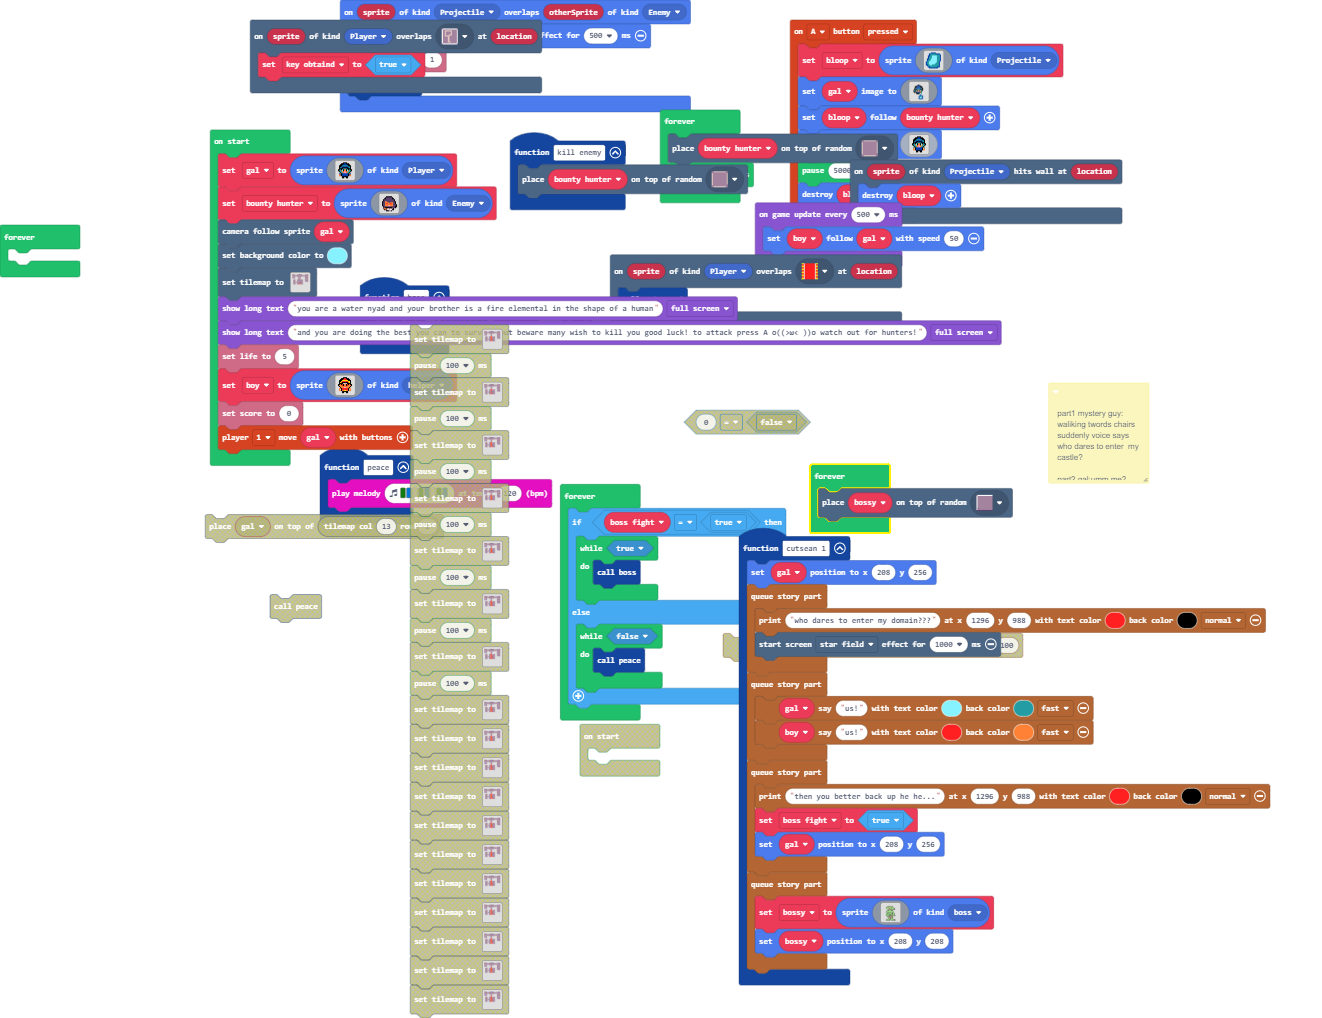
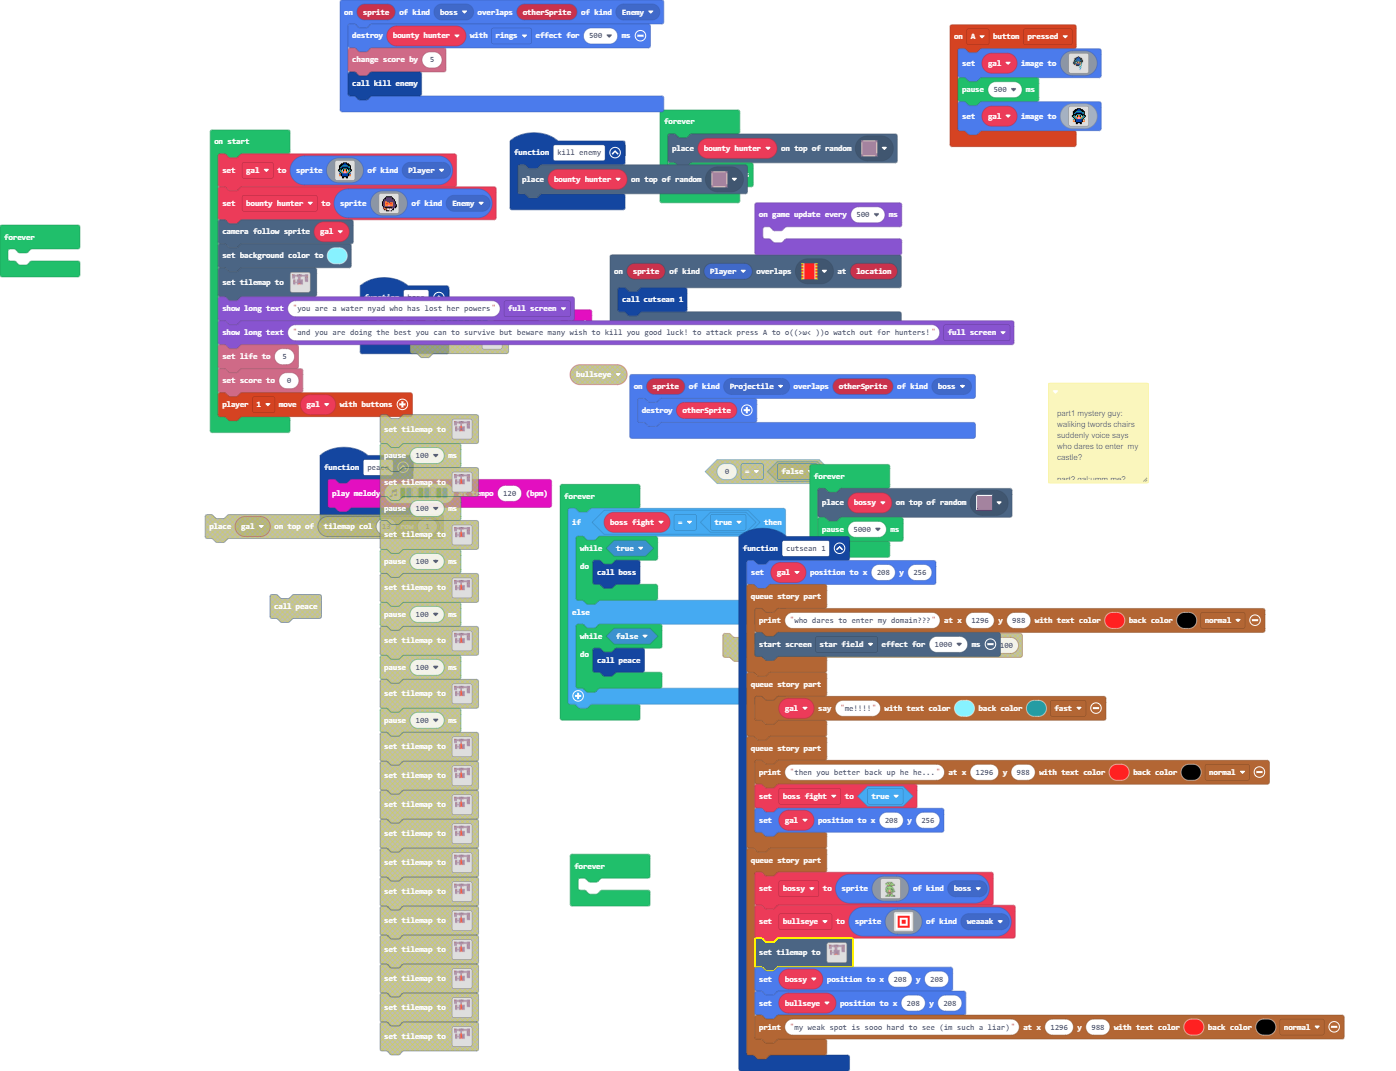
Update main.blocks, main.ts

diff --git a/main.ts b/main.ts
@@ -1,12 +1,9 @@
 namespace SpriteKind {
     export const helper = SpriteKind.create()
     export const boss = SpriteKind.create()
+    export const sword = SpriteKind.create()
+    export const weaaak = SpriteKind.create()
 }
-/**
- * part1 mystery guy: waliking twords chairs suddenly voice says who dares to enter  my castle? 
- * 
- * part2 gal:umm me?  mysty guy: wrong answer!!!  *jumps down from rafters* raaaah words slash across screen bosssssss
- */
 function cutsean_1 () {
     gal.setPosition(208, 256)
     story.queueStoryPart(function () {
@@ -14,8 +11,7 @@ function cutsean_1 () {
         effects.starField.startScreenEffect(1000)
     })
     story.queueStoryPart(function () {
-        story.spriteSayText(gal, "us!", 9, 6, story.TextSpeed.Fast)
-        story.spriteSayText(boy, "us!", 2, 4, story.TextSpeed.Fast)
+        story.spriteSayText(gal, "me!!!!", 9, 6, story.TextSpeed.Fast)
     })
     story.queueStoryPart(function () {
         story.printText("then you better back up he he...", 1296, 988, 2, 15, story.TextSpeed.Normal)
@@ -53,12 +49,12 @@ function cutsean_1 () {
             ff777f77ffff7777ffffff7777f...
             f7777f7777777777777ffff777f...
             f777ff77777777777777fff777f...
-            f777f7777fff777ff7777ff777f...
-            7777f777777fffff77777ff777f...
-            7f7ff777777f77f7ff777ff777fff.
-            7f7f7777ffffccfff7777ff777777f
-            ff7f777777ffffff77f77ff777f77f
-            ..ff777ff77777777ff77ff7f7ff7f
+            f777f7777f222222f7777ff777f...
+            7777f7777721111277777ff777f...
+            7f7ff77777212212ff777ff777fff.
+            7f7f7777ff212212f7777ff777777f
+            ff7f77777721111277f77ff777f77f
+            ..ff777ff72222227ff77ff7f7ff7f
             ...f7777ff777777ff777f.ff7f.f.
             ...f777f7ffffffff7777f...f....
             ...ffffeeeeeeeeeeeeeeef.......
@@ -75,28 +71,54 @@ function cutsean_1 () {
             f77777777777f...f777777777ffff
             ffffffffffffff...fffffffffffff
             `, SpriteKind.boss)
+        bullseye = sprites.create(img`
+            1 1 1 1 1 1 1 1 
+            1 2 2 2 2 2 2 1 
+            1 2 1 1 1 1 2 1 
+            1 2 1 2 2 1 2 1 
+            1 2 1 2 2 1 2 1 
+            1 2 1 1 1 1 2 1 
+            1 2 2 2 2 2 2 1 
+            1 1 1 1 1 1 1 1 
+            `, SpriteKind.weaaak)
[1 lines of base64/hex data omitted]
+            22...2222.........222222......
+            22.2..........................
+            ..........2.....2.............
+            ..........2.....2.............
+            .....2222.........222222...222
+            .....2...22.....222....2......
+            .....2....2.....2......2.2..2.
+            .....2....2.....2......2......
+            222222....2.....2......2......
+            ..2222...22.....22222..2......
+            .2....2.2.2222222...2..2......
+            .2....2.2...........2..2......
+            .2.22.2.2...........2..2......
+            .2.22.222...........2..2......
+            .2..................2..2222222
+            .2..................2.........
+            .2....222...........2.........
+            .2....2.2...........2.........
+            .2....2.2...........2.........
+            .222222.2222222222222.........
+            ..............................
+            ..............................
+            ..............................
+            ..............................
+            ..............................
+            ..............................
+            ..............................
+            ..............................
+            ..............................
+            ..............................
+            `, [myTiles.transparency16,sprites.dungeon.floorDark2,myTiles.tile1,myTiles.tile2,myTiles.tile3,myTiles.tile4,myTiles.tile5,myTiles.tile6,myTiles.tile7,myTiles.tile8,myTiles.tile9,myTiles.tile10,myTiles.tile15,myTiles.tile22], TileScale.Sixteen))
         bossy.setPosition(208, 208)
+        bullseye.setPosition(208, 208)
+        story.printText("my weak spot is sooo hard to see (im such a liar)", 1296, 988, 2, 15, story.TextSpeed.Normal)
     })
 }
 controller.A.onEvent(ControllerButtonEvent.Pressed, function () {
-    bloop = sprites.create(img`
-        . . . . . 8 8 8 8 8 . . . . . . 
-        . . . 8 8 6 6 6 6 6 8 8 8 8 . . 
-        . . . 8 6 6 6 6 6 6 6 6 6 6 8 . 
-        . . 8 8 6 6 9 9 9 9 9 6 6 6 8 . 
-        . . 8 6 6 6 9 9 9 9 9 6 6 6 8 . 
-        . . 8 6 6 6 9 9 9 9 9 6 6 6 8 . 
-        . 8 8 6 6 9 9 9 9 9 9 6 6 6 8 . 
-        . 8 6 6 6 9 9 9 9 9 9 6 6 6 8 . 
-        . 8 6 6 9 9 9 9 9 9 9 6 6 6 8 . 
-        8 6 6 9 9 9 9 9 9 9 9 6 6 8 . . 
-        8 6 6 9 9 9 9 9 9 9 6 6 6 8 . . 
-        8 6 6 9 9 9 9 9 9 6 6 6 6 8 . . 
-        8 8 6 6 9 9 6 6 6 6 6 6 6 8 . . 
-        . 8 6 6 6 6 6 6 6 6 6 6 6 8 . . 
-        . . 8 8 6 6 6 6 6 6 6 8 8 8 . . 
-        . . . 8 8 8 8 8 8 8 8 8 . . . . 
-        `, SpriteKind.Projectile)
     gal.setImage(img`
         ................
         ................
@@ -116,15 +138,15 @@ controller.A.onEvent(ControllerButtonEvent.Pressed, function () {
         ....ffffffdd6...
         .....ffff6dd6...
         ..........66....
-        ..........88....
-        .........888888.
-        ........8866668.
-        ........8699968.
-        ........8669968.
-        ........8869688.
-        .........88888..
+        .........6666...
+        ..........89....
+        ..........98....
+        ..........99....
+        ..........8.....
+        ................
+        ................
         `)
-    bloop.follow(bounty_hunter)
+    pause(500)
     gal.setImage(img`
         . . . . . . f f f f . . . . . . 
         . . . . f f f 8 8 f f f . . . . 
@@ -143,8 +165,6 @@ controller.A.onEvent(ControllerButtonEvent.Pressed, function () {
         . . . . . f f f f f f . . . . . 
         . . . . . f f . . f f . . . . . 
         `)
-    pause(5000)
-    bloop.destroy()
 })
 function boss () {
     music.playMelody("D E F E F D F E ", 500)
@@ -158,22 +178,22 @@ function kill_enemy () {
 scene.onOverlapTile(SpriteKind.Player, myTiles.tile6, function (sprite, location) {
     cutsean_1()
 })
-scene.onHitWall(SpriteKind.Projectile, function (sprite, location) {
-    bloop.destroy()
+sprites.onOverlap(SpriteKind.Projectile, SpriteKind.boss, function (sprite, otherSprite) {
+    otherSprite.destroy()
 })
-scene.onOverlapTile(SpriteKind.Player, myTiles.tile5, function (sprite, location) {
-    key_obtaind = true
-})
-sprites.onOverlap(SpriteKind.Projectile, SpriteKind.Enemy, function (sprite, otherSprite) {
+sprites.onOverlap(SpriteKind.boss, SpriteKind.Enemy, function (sprite, otherSprite) {
     bounty_hunter.destroy(effects.rings, 500)
-    info.changeScoreBy(1)
+    info.changeScoreBy(5)
     kill_enemy()
 })
-let key_obtaind = false
-let bloop: Sprite = null
+/**
+ * part1 mystery guy: waliking twords chairs suddenly voice says who dares to enter  my castle? 
+ * 
+ * part2 gal:umm me?  mysty guy: wrong answer!!!  *jumps down from rafters* raaaah words slash across screen bosssssss
+ */
+let bullseye: Sprite = null
 let bossy: Sprite = null
 let boss_fight = false
-let boy: Sprite = null
 let bounty_hunter: Sprite = null
 let gal: Sprite = null
 gal = sprites.create(img`
@@ -246,27 +266,9 @@ tiles.setTilemap(tiles.createTilemap(hex`1e001e000202010101000000000101010104010
     ..............................
     ..............................
     `, [myTiles.transparency16,sprites.dungeon.floorDark2,myTiles.tile1,myTiles.tile2,myTiles.tile3,myTiles.tile4,myTiles.tile5,myTiles.tile6,myTiles.tile7,myTiles.tile8,myTiles.tile9,myTiles.tile10,myTiles.tile15,myTiles.tile22], TileScale.Sixteen))
-game.showLongText("you are a water nyad and your brother is a fire elemental in the shape of a human", DialogLayout.Full)
-game.showLongText("and you are doing the best you can to survive but beware many wish to kill you good luck! to attack press A o((>ω< ))o watch out for hunters!", DialogLayout.Full)
+game.showLongText("you are a water nyad who has lost her powers", DialogLayout.Full)
+game.showLongText("and you are doing the best you can to survive but beware many wish to kill you good luck! to attack press A to o((>ω< ))o watch out for hunters!", DialogLayout.Full)
 info.setLife(5)
-boy = sprites.create(img`
-    . . . . . . f f f f . . . . . . 
-    . . . . f f f 2 2 f f f . . . . 
-    . . . f f f 2 2 2 2 f f f . . . 
-    . . f f f 5 5 5 5 5 5 f f f . . 
-    . . f f 5 2 2 2 2 2 2 5 5 f . . 
-    . . f 5 2 f f f f f f 2 5 f . . 
-    . . f f f f d d d d f f f f . . 
-    . f f 4 f 2 f 4 4 f 2 f 4 f f . 
-    . f 4 4 4 2 f 4 4 f 2 4 4 4 f . 
-    . . f 4 4 4 4 4 4 4 4 4 4 f . . 
-    . . . f 4 4 4 3 3 4 4 4 f . . . 
-    . . 4 4 f 2 2 2 2 2 2 f 4 4 . . 
-    . . 4 d f 2 2 2 2 2 2 f d 4 . . 
-    . . 4 4 f 4 4 5 5 4 4 f 4 4 . . 
-    . . . . . f f f f f f . . . . . 
-    . . . . . f f . . f f . . . . . 
-    `, SpriteKind.helper)
 info.setScore(0)
 controller.player1.moveSprite(gal)
 forever(function () {
@@ -278,6 +280,7 @@ forever(function () {
 })
 forever(function () {
     tiles.placeOnRandomTile(bossy, myTiles.tile22)
+    pause(5000)
 })
 forever(function () {
     if (boss_fight == true) {
@@ -290,6 +293,9 @@ forever(function () {
         }
     }
 })
+forever(function () {
+	
+})
 game.onUpdateInterval(500, function () {
-    boy.follow(gal, 50)
+	
 })
